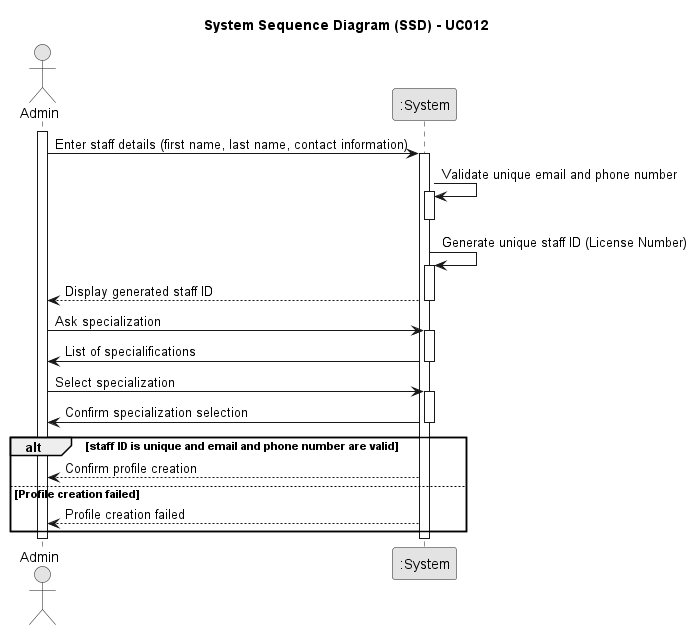
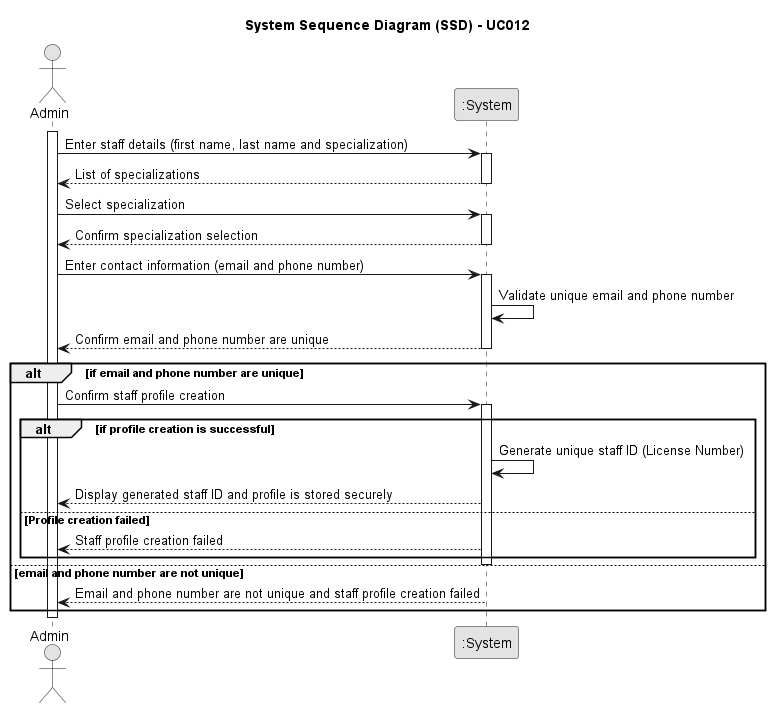
#14 UC012: Requirements Engineering Updated
Changes in the sequence diagram and readme.md file with the new answer.

Changed region(s): [[0.0, 0.0603, 1.0, 0.9952], [0.2731, 0.0302, 0.698, 0.0603]]

diff --git a/docs/SprintA/UseCases/UC012/01.requirements-engineering/README.md b/docs/SprintA/UseCases/UC012/01.requirements-engineering/README.md
@@ -18,8 +18,15 @@
 
 > **Question:** I have one question related to the staff license number. Since it will be generated, would you like it to be generated in any particular format or algorithm of your choice?
 >
-> **Answer:** No documento nada de explicito é dito sobre este assunto. No entanto, do ponto de vista de gestão do processo da jobs4u parece-me adequado que essa informação fique registada.
-
+> **Answer:** > There is a misinformation in the RFP. Staff IDs are unique and generated by the system. License numbers are unique but **not** generated by the system.  
+> Staff IDs follow the format `"(N | D | O)yyyynnnnn"`.  
+> For instance: `N202401234`  
+> **N** is for nurse  
+> **D** is for doctor  
+> **O** is for other  
+> **yyyy** is the year of recruitment  
+> **nnnnn** is a sequential number
+>
 > **Question:** How should the specialization be assigned to a staff? Should the admin write it like a first name? Or should the admin select the specialization?
 >
 > **Answer:** the system has a list of specializations. staff is assigned a specialization from that list
